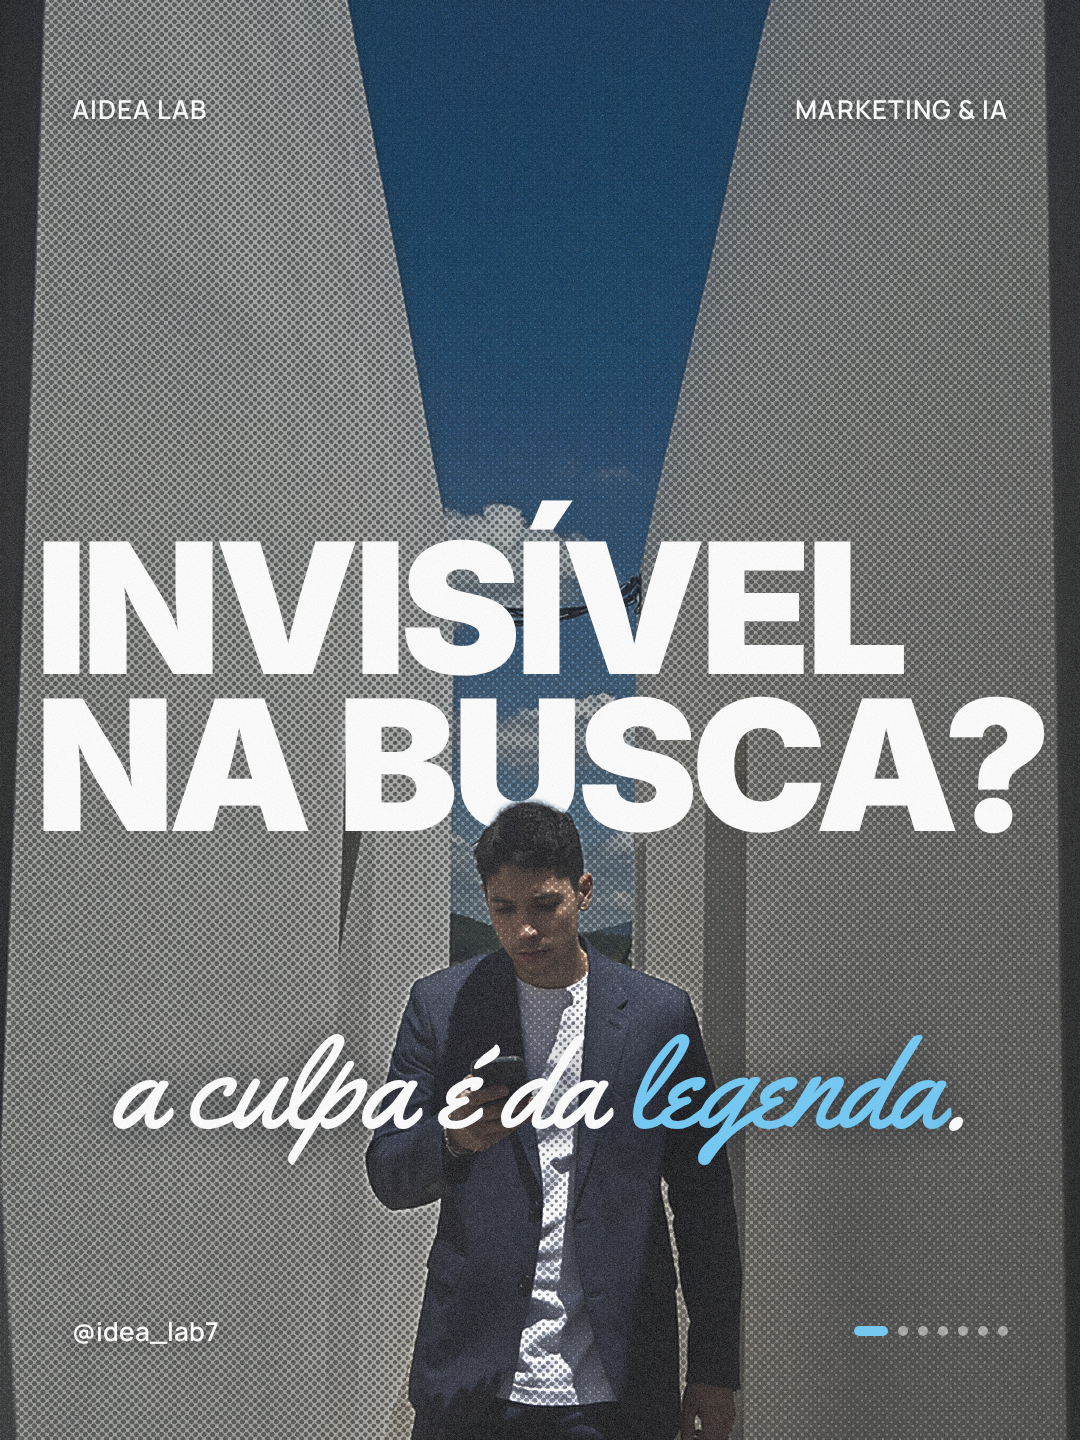
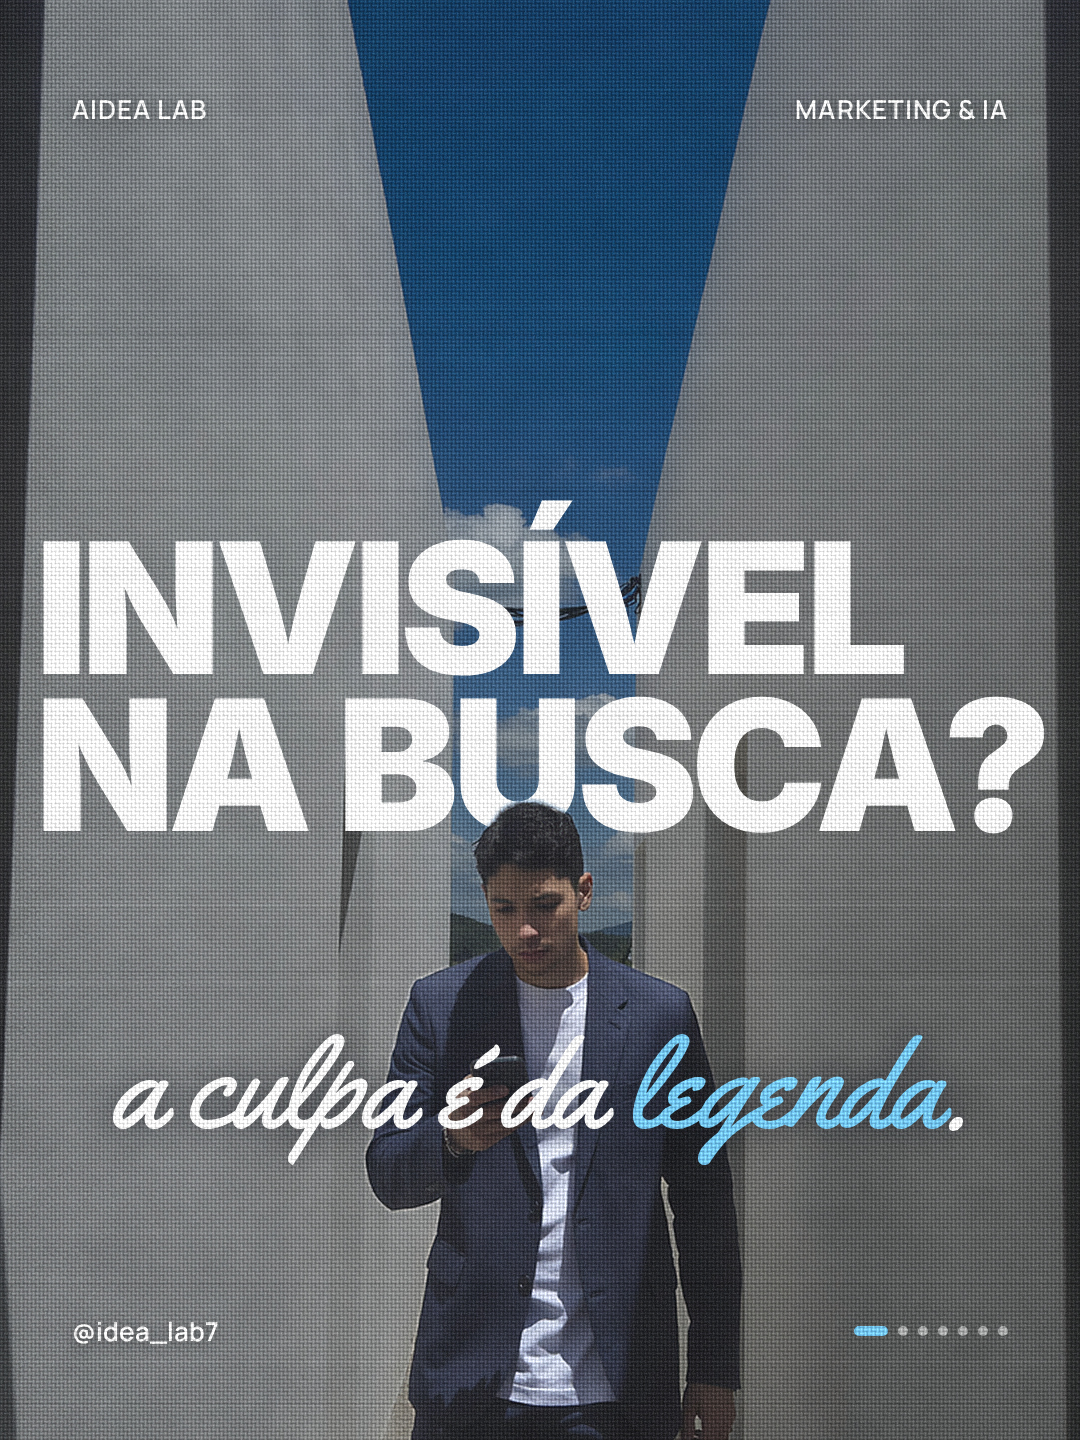
engine: hook com personagem na textura cloth (slide inteiro, letras incluídas)
- tema.json: textura_personagem {hook: cloth_letras}; render.py troca o halftone da foto pelo cloth no hook
  quando o carrossel tem meta.personagem (ou personagem no png/metadata.json); banco segue com halftone.
- metadata.py grava personagem e as texturas já aplicadas; sync_fila_drive.py usa a mesma regra e não
  texturiza de novo.
- Hooks dos 9 carrosséis com personagem re-renderizados (slides 2 em diante intactos) e fila Dia28-30
  atualizada.
- Docs: templates.md, personagens.md, prompt da rotina diária.

Claude-Session: https://claude.ai/code/session_0154QHEi4ptCKxuEULmKRg4B

diff --git a/motor/render.py b/motor/render.py
@@ -33,6 +33,13 @@ def falhar(msg):
     sys.exit(1)
 
 
+def personagem(data, out_dir):
+    if data.get("meta", {}).get("personagem"):
+        return True
+    m = Path(out_dir) / "metadata.json"
+    return m.exists() and bool(json.loads(m.read_text(encoding="utf-8-sig")).get("personagem"))
+
+
 def main():
     args = sys.argv[1:]
     tema_dir = os.environ.get("CARROSSEL_TEMA")
@@ -57,6 +64,11 @@ def main():
     # tema "textura_foto" {"hook": tipo, "cta": tipo}: textura só na foto e no recorte (o texto fica limpo)
     n = len(data["slides"])
     tex = {1: tema.get("textura_foto", {}).get("hook"), n: tema.get("textura_foto", {}).get("cta")}
+    # carrossel com personagem (meta.personagem no JSON ou no metadata.json já gerado): o hook troca a textura da
+    # foto pela do tema "textura_personagem" {"hook": tipo}, aplicada no slide inteiro
+    tper = tema.get("textura_personagem", {}) if personagem(data, out_dir) else {}
+    if tper.get("hook"):
+        tex[1] = None
     tmp = Path(tempfile.mkdtemp(prefix="textura_foto_"))
     for i, s in enumerate(data["slides"], 1):
         for k in ("imagem", "recorte"):
@@ -118,6 +130,7 @@ def main():
     out_dir.mkdir(parents=True, exist_ok=True)
     # tema "textura_slide" {"hook"/"cta": tipo}: textura no slide inteiro, letras incluídas
     tsl = {1: tema.get("textura_slide", {}).get("hook"), n: tema.get("textura_slide", {}).get("cta")}
+    tsl[1] = tper.get("hook") or tsl[1]
     for i, b in enumerate(shots, 1):
         png = out_dir / f"slide-{i:02d}.png"
         png.write_bytes(b)

diff --git a/motor/metadata.py b/motor/metadata.py
@@ -67,13 +67,20 @@ def gerar(json_path, tema, ordem_fila=None, hashtags=()):
         "legenda": legenda_md.read_text(encoding="utf-8").strip() if legenda_md.exists() else "",
         "hashtags": list(hashtags),
         "handle": tema["handle"],
+        "personagem": d["meta"].get("personagem", ""),
     }
+    # texturas que o render.py já aplicou (o sync_fila_drive pula quem tem a marca, sem texturizar de novo)
+    foto, slide = dict(tema.get("textura_foto") or {}), dict(tema.get("textura_slide") or {})
+    if meta["personagem"] and (tema.get("textura_personagem") or {}).get("hook"):
+        foto.pop("hook", None)
+        slide["hook"] = tema["textura_personagem"]["hook"]
+    meta["textura_foto"], meta["textura_slide"] = foto, slide
     for sl in meta["slides"]:
         assert (png / sl["arquivo"]).exists(), f"falta {sl['arquivo']} em {png}"
     destino = png / "metadata.json"
     if destino.exists():
         antigo = json.loads(destino.read_text(encoding="utf-8"))
-        for k in ("postado", "postado_em", "post_id", "data_criacao"):
+        for k in ("postado", "postado_em", "post_id", "data_criacao", "status"):
             if k in antigo:
                 meta[k] = antigo[k]
     destino.write_text(json.dumps(meta, ensure_ascii=False, indent=2), encoding="utf-8")

diff --git a/motor/textura_foto.py b/motor/textura_foto.py
@@ -2,6 +2,7 @@
 Texturas por papel do slide, configuradas no tema.json:
   "textura_foto": {"hook": "halftone"}       só na foto (imagem e recorte), o texto fica limpo
   "textura_slide": {"cta": "cloth_letras"}   no slide inteiro, letras incluídas (aplicada no PNG final)
+  "textura_personagem": {"hook": "cloth_letras"}   carrossel com personagem: hook no slide inteiro, sem a da foto
 - halftone: filtro_halftone.halftone (retícula de impresso)
 - cloth: trama de tecido assets/pano.png em soft-light 55% (a mesma da engine otalogia, --tex-pano)
 - cloth_letras: cloth + ±9% de luz/sombra dos fios, para a trama aparecer também nas letras brancas

diff --git a/agente aidealab/automation/sync_fila_drive.py b/agente aidealab/automation/sync_fila_drive.py
@@ -57,6 +57,9 @@ def aplicar_textura(d, meta):
         return False
     tema = ler(TEMA)
     foto, slide = tema.get("textura_foto") or {}, tema.get("textura_slide") or {}
+    if meta.get("personagem") and (tema.get("textura_personagem") or {}).get("hook"):  # hook com personagem: cloth
+        foto = {k: v for k, v in foto.items() if k != "hook"}
+        slide = {**slide, "hook": tema["textura_personagem"]["hook"]}
     for papel, s in (("hook", meta["slides"][0]), ("cta", meta["slides"][-1])):
         f = d / s["arquivo"]
         if foto.get(papel):

diff --git a/agente aidealab/clientes/aidealab/design-system/templates/templates.md b/agente aidealab/clientes/aidealab/design-system/templates/templates.md
@@ -61,4 +61,5 @@ quanto for preciso.
 - Slide 3: `"textura": "grain"`, só grão forte sobre o fundo liso, sem gradiente nem brilho de cor (nada de spotlight ciano ou rosa). O `compor.py` marca sozinho.
 - Hook e CTA com personagem: título bold ATRÁS DO TOPO DA CABEÇA (cabelo/testa; capa de revista), nunca atrás do rosto nem do tronco/costas, e a frase handwritten (emocao) NA FRENTE do sujeito, sobre o corpo e nunca no rosto; o `compor.py` escolhe sozinho sempre que houver folga acima da cabeça (topo da cabeça em ~1/3 do quadro).
 - Texturas do hook e do CTA, pelo `tema.json` (`motor/textura_foto.py`): hook (slide 1) = `"textura_foto": {"hook": "halftone"}`, só na foto (imagem e recorte, antes do texto; texto limpo); CTA (último) = `"textura_slide": {"cta": "cloth_letras"}`, a trama de tecido `motor/assets/pano.png` (soft-light 55%, a mesma da engine otalogia) + ±9% de luz/sombra dos fios no slide INTEIRO, letras incluídas (aprovado 2026-10-08). O `sync_fila_drive.py` aplica nos aprovados que entram na FILA (marca `textura_foto`/`textura_slide` no metadata); o workflow `textura-foto-drive.yml` refaz as pastas já existentes a partir da versão limpa do Drive.
+- **Hook com personagem (2026-10-11):** `"textura_personagem": {"hook": "cloth_letras"}` no `tema.json` troca o halftone da foto pela trama de tecido no slide 1 INTEIRO, letras incluídas (igual ao CTA). Vale quando o carrossel tem `meta.personagem` no `carrossel.json` (ou `personagem` no `png/metadata.json`); carrossel de banco segue com halftone na foto. O `metadata.py` grava `textura_foto`/`textura_slide` do que o render aplicou, e o `sync_fila_drive.py` não texturiza de novo.
 - Demais slides de lista e o de conclusão: `"textura": "led"`.

diff --git a/agente aidealab/clientes/aidealab/design-system/personagens.md b/agente aidealab/clientes/aidealab/design-system/personagens.md
@@ -69,3 +69,5 @@ no hat, no jewelry`
 O publicador (`skills/post-instagram/scripts/publish_next.py`) alterna sozinho: depois de um post com `personagem`
 no metadata vem um sem personagem (imagem de banco/cena), e vice-versa. Por isso todo carrossel com personagem precisa
 de `personagem` = `luizota`, `wel` ou `ambos` no `png/metadata.json`, e todo carrossel de banco deixa o campo vazio.
+O campo vai em `meta.personagem` do `carrossel.json` antes do render: o hook ganha a textura cloth no slide inteiro
+(`textura_personagem` do `tema.json`) e o `metadata.py` copia o campo para o `png/metadata.json`.
